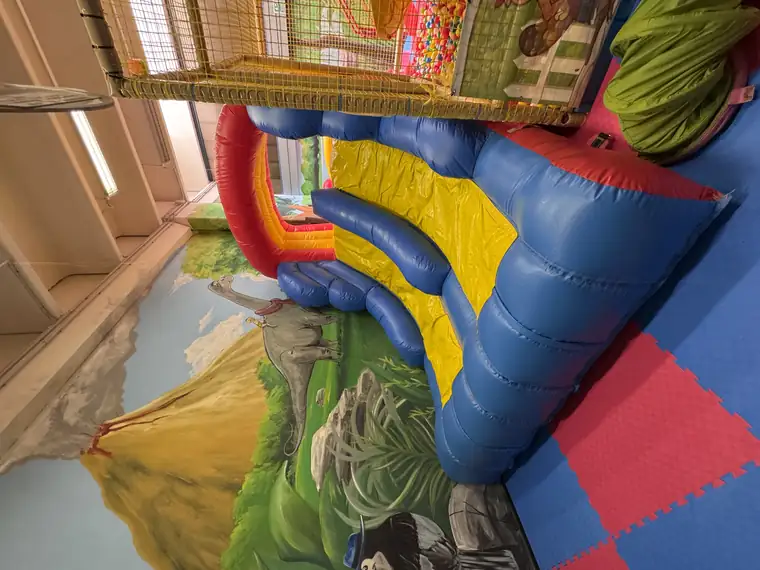
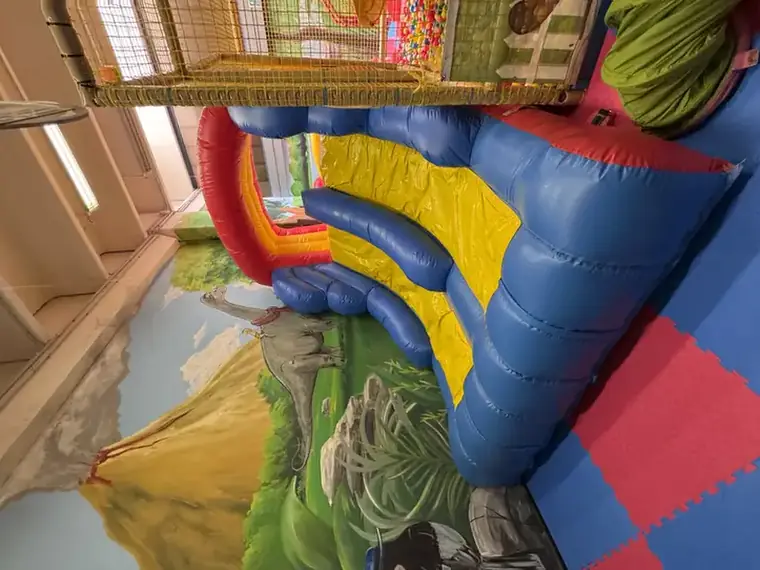
Foto nuove nelle sezioni, animazione esterna ed eventi, foto raddrizzate

diff --git a/index.html b/index.html
@@ -492,6 +492,7 @@ footer small{display:block; font-size:.86rem; opacity:.8; margin-top:8px}
   <nav class="menu" id="menu" aria-label="Menu">
     <a href="#parco">Il parco</a>
     <a href="#compleanni">Compleanni</a>
+    <a href="#animazione">Animazione</a>
     <a href="#estate">Centri estivi</a>
     <a href="#contatti">Dove siamo</a>
     <a class="btn btn-scuro" href="#richiesta">Scrivici</a>
@@ -542,7 +543,7 @@ footer small{display:block; font-size:.86rem; opacity:.8; margin-top:8px}
 
     <div class="tris">
       <article class="scheda rv">
-        <div class="scatto" data-bg="foto/playground.webp"></div>
+        <div class="scatto" data-bg="foto/mini/playground.webp"></div>
         <div class="testata t-verde">
           <span class="ico"><svg aria-hidden="true"><use href="#i-scivolo"/></svg></span>
           <h3>Playground</h3>
@@ -558,7 +559,7 @@ footer small{display:block; font-size:.86rem; opacity:.8; margin-top:8px}
       </article>
 
       <article class="scheda rv d1" id="compleanni">
-        <div class="scatto" data-bg="foto/compleanni.webp"></div>
+        <div class="scatto" data-bg="foto/mini/compleanni.webp"></div>
         <div class="testata t-rosso">
           <span class="ico"><svg aria-hidden="true"><use href="#i-torta"/></svg></span>
           <h3>Compleanni</h3>
@@ -574,7 +575,7 @@ footer small{display:block; font-size:.86rem; opacity:.8; margin-top:8px}
       </article>
 
       <article class="scheda rv d2">
-        <div class="scatto" data-bg="foto/estivi.webp"></div>
+        <div class="scatto" data-bg="foto/mini/estivi.webp"></div>
         <div class="testata t-azzurro">
           <span class="ico"><svg aria-hidden="true"><use href="#i-sole"/></svg></span>
           <h3>Centri estivi e invernali</h3>
@@ -589,8 +590,8 @@ footer small{display:block; font-size:.86rem; opacity:.8; margin-top:8px}
         </div>
       </article>
 
-      <article class="scheda rv" id="eventi">
-        <div class="scatto" data-bg="foto/hero.webp"></div>
+      <article class="scheda rv">
+        <div class="scatto" data-bg="foto/mini/eventi-fluo.webp"></div>
         <div class="testata t-rosso">
           <span class="ico"><svg aria-hidden="true"><use href="#i-stella"/></svg></span>
           <h3>Eventi</h3>
@@ -605,8 +606,8 @@ footer small{display:block; font-size:.86rem; opacity:.8; margin-top:8px}
         </div>
       </article>
 
-      <article class="scheda rv d1" id="animazione">
-        <div class="scatto" data-bg="foto/compleanni.webp"></div>
+      <article class="scheda rv d1">
+        <div class="scatto" data-bg="foto/mini/animazione-bolle.webp"></div>
         <div class="testata t-verde">
           <span class="ico"><svg aria-hidden="true"><use href="#i-faccia"/></svg></span>
           <h3>Animazione esterna</h3>
@@ -704,16 +705,16 @@ footer small{display:block; font-size:.86rem; opacity:.8; margin-top:8px}
       </div>
 
       <div class="grappolo" id="grappolo">
-        <span class="pall-wrap" style="left:2.3%;  top:57.6%; height:30.3%; animation-delay:-0.0s; animation-duration:4.4s"><img src="palloncini/stella.webp" alt="Palloncino a stella" draggable="false" loading="lazy"></span>
-        <span class="pall-wrap" style="left:6.4%;  top:10.6%; height:37.9%; animation-delay:-0.7s; animation-duration:4.8s"><img src="palloncini/azzurro.webp" alt="Palloncino azzurro" draggable="false" loading="lazy"></span>
-        <span class="pall-wrap" style="left:18.9%; top:19.7%; height:51.5%; animation-delay:-1.4s; animation-duration:5.1s"><img src="palloncini/giraffa.webp" alt="Palloncino giraffa" draggable="false" loading="lazy"></span>
-        <span class="pall-wrap" style="left:32.6%; top:7.6%;  height:32.6%; animation-delay:-2.1s; animation-duration:5.5s"><img src="palloncini/cuore.webp" alt="Palloncino a cuore" draggable="false" loading="lazy"></span>
-        <span class="pall-wrap" style="left:31.8%; top:51.5%; height:40.2%; animation-delay:-2.8s; animation-duration:5.8s"><img src="palloncini/elefante.webp" alt="Palloncino elefante" draggable="false" loading="lazy"></span>
-        <span class="pall-wrap" style="left:47%;   top:24.2%; height:51.5%; animation-delay:-3.5s; animation-duration:6.2s"><img src="palloncini/panda.webp" alt="Palloncino panda" draggable="false" loading="lazy"></span>
-        <span class="pall-wrap" style="left:50%;   top:60.6%; height:35.6%; animation-delay:-4.2s; animation-duration:6.5s"><img src="palloncini/leone.webp" alt="Palloncino leone" draggable="false" loading="lazy"></span>
-        <span class="pall-wrap" style="left:65.2%; top:6%;    height:36.4%; animation-delay:-4.9s; animation-duration:6.8s"><img src="palloncini/mylar.webp" alt="Palloncino verde" draggable="false" loading="lazy"></span>
-        <span class="pall-wrap" style="left:66.7%; top:48.5%; height:43.9%; animation-delay:-5.6s; animation-duration:7.2s"><img src="palloncini/zebra.webp" alt="Palloncino zebra" draggable="false" loading="lazy"></span>
-        <span class="pall-wrap" style="left:79.9%; top:16.7%; height:45.5%; animation-delay:-6.3s; animation-duration:7.6s"><img src="palloncini/scimmia.webp" alt="Palloncino scimmia" draggable="false" loading="lazy"></span>
+        <span class="pall-wrap" style="left:2.3%;  top:57.6%; height:30.3%; animation-delay:-0.0s; animation-duration:4.4s"><img data-src="palloncini/stella.webp" alt="Palloncino a stella" draggable="false"></span>
+        <span class="pall-wrap" style="left:6.4%;  top:10.6%; height:37.9%; animation-delay:-0.7s; animation-duration:4.8s"><img data-src="palloncini/azzurro.webp" alt="Palloncino azzurro" draggable="false"></span>
+        <span class="pall-wrap" style="left:18.9%; top:19.7%; height:51.5%; animation-delay:-1.4s; animation-duration:5.1s"><img data-src="palloncini/giraffa.webp" alt="Palloncino giraffa" draggable="false"></span>
+        <span class="pall-wrap" style="left:32.6%; top:7.6%;  height:32.6%; animation-delay:-2.1s; animation-duration:5.5s"><img data-src="palloncini/cuore.webp" alt="Palloncino a cuore" draggable="false"></span>
+        <span class="pall-wrap" style="left:31.8%; top:51.5%; height:40.2%; animation-delay:-2.8s; animation-duration:5.8s"><img data-src="palloncini/elefante.webp" alt="Palloncino elefante" draggable="false"></span>
+        <span class="pall-wrap" style="left:47%;   top:24.2%; height:51.5%; animation-delay:-3.5s; animation-duration:6.2s"><img data-src="palloncini/panda.webp" alt="Palloncino panda" draggable="false"></span>
+        <span class="pall-wrap" style="left:50%;   top:60.6%; height:35.6%; animation-delay:-4.2s; animation-duration:6.5s"><img data-src="palloncini/leone.webp" alt="Palloncino leone" draggable="false"></span>
+        <span class="pall-wrap" style="left:65.2%; top:6%;    height:36.4%; animation-delay:-4.9s; animation-duration:6.8s"><img data-src="palloncini/mylar.webp" alt="Palloncino verde" draggable="false"></span>
+        <span class="pall-wrap" style="left:66.7%; top:48.5%; height:43.9%; animation-delay:-5.6s; animation-duration:7.2s"><img data-src="palloncini/zebra.webp" alt="Palloncino zebra" draggable="false"></span>
+        <span class="pall-wrap" style="left:79.9%; top:16.7%; height:45.5%; animation-delay:-6.3s; animation-duration:7.6s"><img data-src="palloncini/scimmia.webp" alt="Palloncino scimmia" draggable="false"></span>
       </div>
     </div>
 
@@ -752,12 +753,73 @@ footer small{display:block; font-size:.86rem; opacity:.8; margin-top:8px}
       </div>
     </div>
 
+    <h2 class="rv" id="animazione" style="margin-top:64px">Animazione esterna</h2>
+
+    <div class="store con-foto rv">
+      <div class="sfoglia" tabindex="0" role="group" aria-label="Foto dell'animazione, scorri in orizzontale">
+        <img data-src="foto/animazione-bolle.webp" width="880" height="495" decoding="async" alt="Bolle di sapone giganti in giardino al tramonto" draggable="false">
+        <img data-src="foto/animazione-parco.webp" width="880" height="495" decoding="async" alt="Un'animatrice con una bambina in braccio durante una festa" draggable="false">
+        <img data-src="foto/animazione-colori.webp" width="880" height="495" decoding="async" alt="Bambini che lanciano in aria polveri colorate in un prato" draggable="false">
+        <img data-src="foto/animazione-tema.webp" width="880" height="495" decoding="async" alt="Un'animatrice in costume a tema davanti alla cornice di compleanno" draggable="false">
+      </div>
+      <div class="store-testo">
+        <div class="testata t-verde" style="border:0; padding:0 0 14px">
+          <span class="ico"><svg aria-hidden="true"><use href="#i-faccia"/></svg></span>
+          <h3>Veniamo noi da te</h3>
+        </div>
+        <p>Portiamo l'animazione dove serve: in giardino, a scuola, alla sagra o nella sala che hai prenotato.</p>
+        <ul>
+          <li><svg aria-hidden="true"><use href="#i-check"/></svg> <span>Truccabimbi</span></li>
+          <li><svg aria-hidden="true"><use href="#i-check"/></svg> <span>Caccia al tesoro</span></li>
+          <li><svg aria-hidden="true"><use href="#i-check"/></svg> <span>Bolle di sapone giganti</span></li>
+          <li><svg aria-hidden="true"><use href="#i-check"/></svg> <span>Mascotte</span></li>
+        </ul>
+        <p class="extra-tariffe">
+          Dicci data, luogo e quanti bambini: ti prepariamo il preventivo su misura.
+        </p>
+        <div class="store-azioni">
+          <a class="btn btn-rosso" href="#richiesta">Chiedi il preventivo</a>
+        </div>
+      </div>
+    </div>
+
+    <h2 class="rv" id="eventi" style="margin-top:64px">Eventi a tema</h2>
+
+    <div class="store con-foto rv">
+      <div class="sfoglia" tabindex="0" role="group" aria-label="Foto degli eventi, scorri in orizzontale">
+        <img data-src="foto/eventi-fluo.webp" width="880" height="495" decoding="async" alt="Festa a tema con luci fluorescenti e mascotte nel parco" draggable="false">
+        <img data-src="foto/eventi-mascotte.webp" width="880" height="495" decoding="async" alt="Una mascotte accanto alla torta e ai palloncini di una festa" draggable="false">
+      </div>
+      <div class="store-testo">
+        <div class="testata t-rosso" style="border:0; padding:0 0 14px">
+          <span class="ico"><svg aria-hidden="true"><use href="#i-stella"/></svg></span>
+          <h3>Le feste di tutto l'anno</h3>
+        </div>
+        <p>Durante l'anno il parco si veste a tema e organizziamo pomeriggi speciali, aperti a tutti.</p>
+        <ul>
+          <li><svg aria-hidden="true"><use href="#i-check"/></svg> <span><b>Halloween</b>, con trucco e giochi a tema</span></li>
+          <li><svg aria-hidden="true"><use href="#i-check"/></svg> <span><b>Natale</b> e le feste di fine anno</span></li>
+          <li><svg aria-hidden="true"><use href="#i-check"/></svg> <span>Eventi a tema nel corso dell'anno</span></li>
+        </ul>
+        <p class="extra-tariffe">
+          Le date cambiano ogni anno: le annunciamo su Instagram e Facebook, oppure scrivici e te le diciamo.
+        </p>
+        <div class="store-azioni">
+          <a class="btn btn-chiaro" href="https://www.instagram.com/giumapark/" target="_blank" rel="noopener">
+            <svg width="19" height="19" viewBox="0 0 24 24" stroke="currentColor" fill="none" stroke-width="2.2" stroke-linecap="round" stroke-linejoin="round" aria-hidden="true"><use href="#i-ig"/></svg>
+            Guarda le prossime date
+          </a>
+        </div>
+      </div>
+    </div>
+
     <h2 class="rv" id="estate" style="margin-top:64px">Centri estivi e invernali</h2>
 
     <div class="store con-foto rv">
       <div class="sfoglia" tabindex="0" role="group" aria-label="Foto dei centri, scorri in orizzontale">
+        <img data-src="foto/centri-gita.webp" width="880" height="495" decoding="async" alt="I bambini del centro estivo in gita al parco" draggable="false">
+        <img data-src="foto/centri-sport.webp" width="880" height="495" decoding="async" alt="Partita di pallacanestro al campo durante il centro estivo" draggable="false">
         <img data-src="foto/estivi.webp" width="760" height="570" decoding="async" alt="I bambini del centro estivo" draggable="false">
-        <img data-src="foto/playground.webp" width="760" height="570" decoding="async" alt="Il playground con scivoli e vasca di palline" draggable="false">
       </div>
       <div class="store-testo">
         <div class="testata t-azzurro" style="border:0; padding:0 0 14px">
@@ -1328,7 +1390,7 @@ footer small{display:block; font-size:.86rem; opacity:.8; margin-top:8px}
   });
 
   /* le foto dei caroselli arrivano solo quando ci si avvicina */
-  var caroselli = document.querySelectorAll('.sfoglia');
+  var caroselli = document.querySelectorAll('.sfoglia, .grappolo');
   function riempi(box){
     box.querySelectorAll('img[data-src]').forEach(function(i){
       i.src = i.getAttribute('data-src'); i.removeAttribute('data-src');
